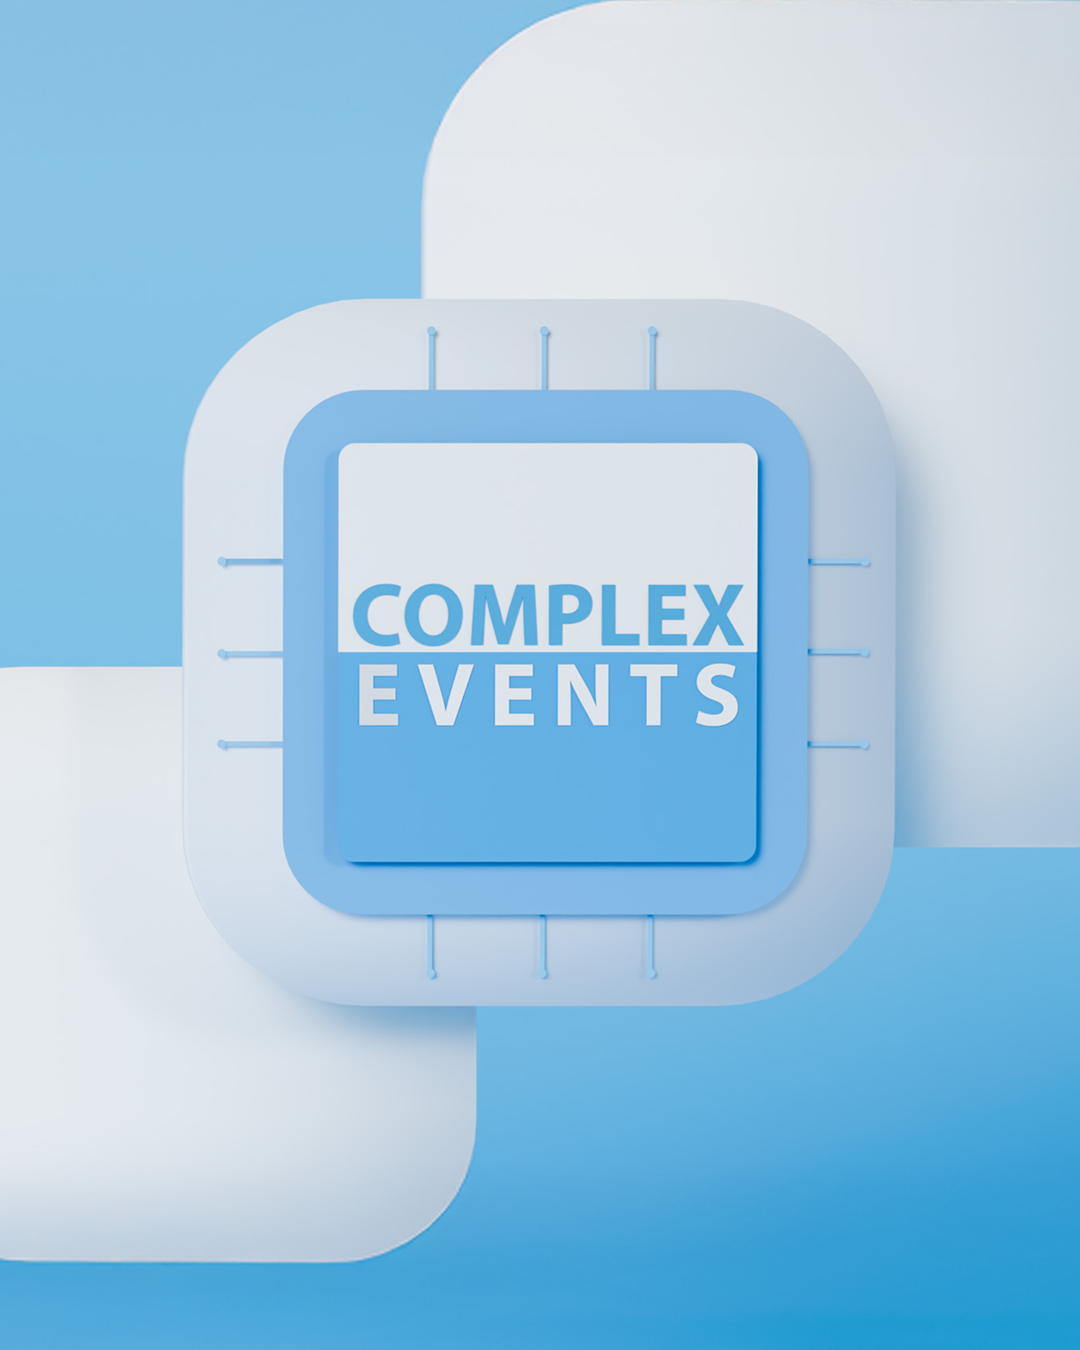
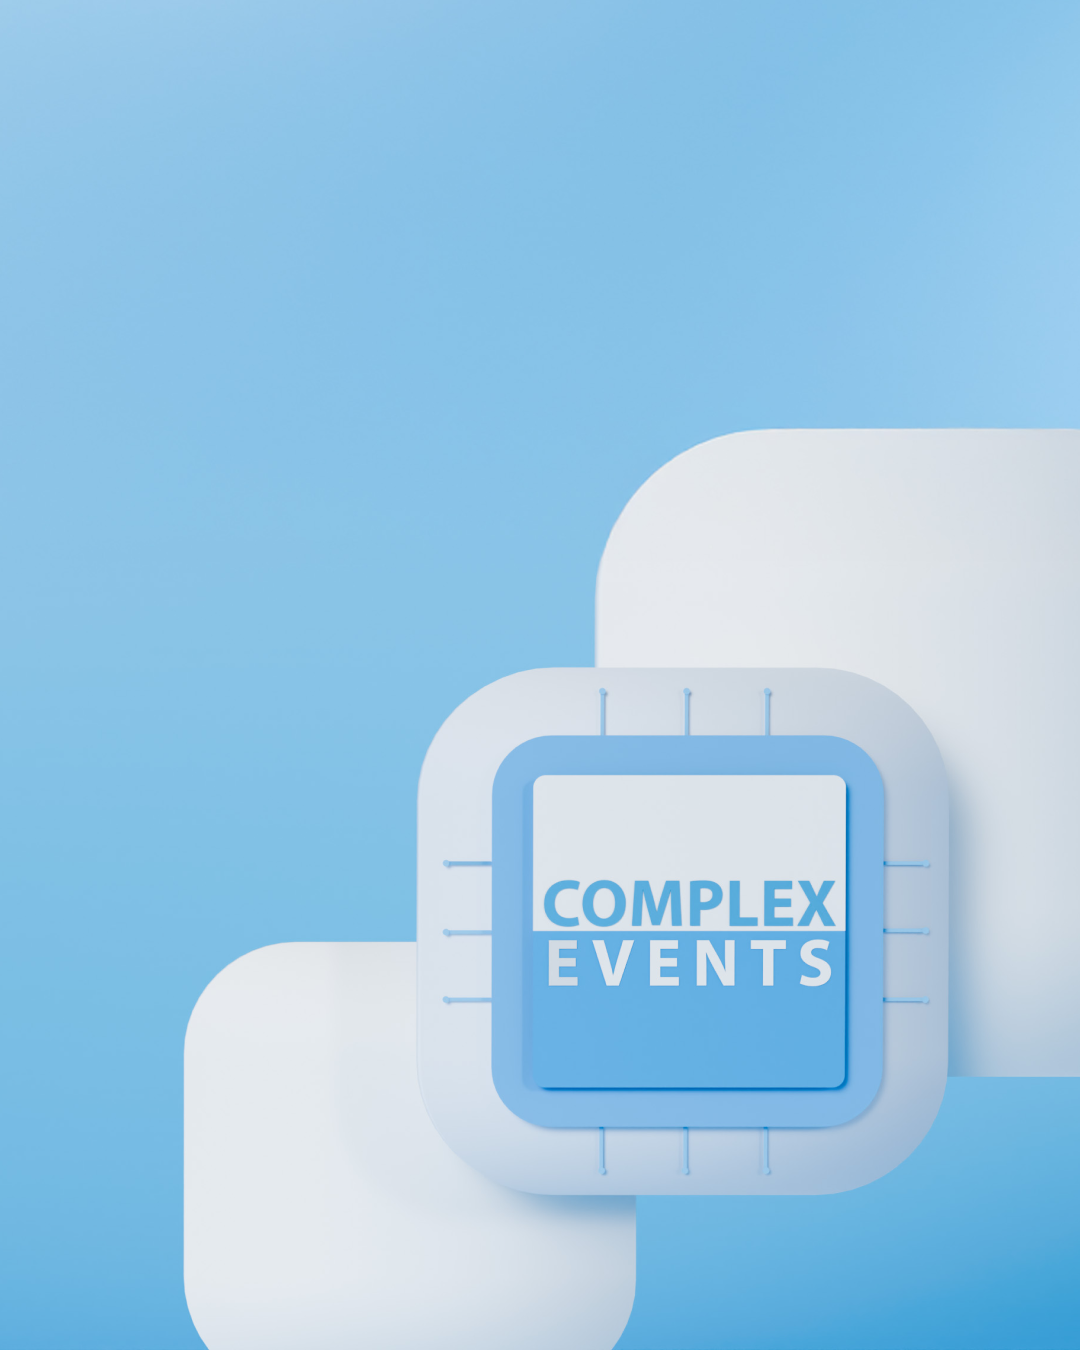
hero images

diff --git a/app/globals.css b/app/globals.css
@@ -177,3 +177,185 @@ a[class*="bg-[#00529B]"]:hover {
   transform: translateY(-2px) scale(1.02);
   box-shadow: 0 12px 24px rgba(40, 57, 140, 0.22);
 }
+/* Custom styling for the product images if they are used as background */
+.product-background-image {
+  background-size: cover;
+  background-position: center;
+  background-repeat: no-repeat;
+}
+
+.smart-series-hero-background {
+  background-image: url('/Navtelecom/smart_homepage1 1080x1350.png');
+}
+
+@media (min-width: 768px) {
+  .smart-series-hero-background {
+    background-image: url('/Navtelecom/smart_homepage1 2048x1365.png');
+  }
+}
+
+@media (min-width: 1024px) {
+  .smart-series-hero-background {
+    background-image: url('/Navtelecom/smart_homepage1 2560x1440.png');
+  }
+}
+
+@media (min-width: 1280px) {
+  .smart-series-hero-background {
+    background-image: url('/Navtelecom/smart_homepage1 3840x1646.png');
+  }
+}
+
+.start-series-hero-background {
+  background-image: url('/Navtelecom/start_homepage1 1080x1350.png') !important;
+}
+
+@media (min-width: 768px) {
+  .start-series-hero-background {
+    background-image: url('/Navtelecom/start_homepage1 2048x1365.png') !important;
+  }
+}
+
+@media (min-width: 1024px) {
+  .start-series-hero-background {
+    background-image: url('/Navtelecom/start_homepage1 2560x1440.png') !important;
+  }
+}
+
+@media (min-width: 1280px) {
+  .start-series-hero-background {
+    background-image: url('/Navtelecom/start_homepage1 3840x1646.png') !important;
+  }
+}
+
+.all-devices-hero-background {
+  background-image: url('/Navtelecom/all devices_homepage1 1080x1350.png') !important;
+}
+
+@media (min-width: 768px) {
+  .all-devices-hero-background {
+    background-image: url('/Navtelecom/all devices_homepage1 2048x1365.png') !important;
+  }
+}
+
+@media (min-width: 1024px) {
+  .all-devices-hero-background {
+    background-image: url('/Navtelecom/all devices_homepage1 2560x1440.png') !important;
+  }
+}
+
+@media (min-width: 1280px) {
+  .all-devices-hero-background {
+    background-image: url('/Navtelecom/all devices_homepage1 3840x1646.png') !important;
+  }
+}
+
+.tracking-devices-hero-background {
+  background-image: url('/Navtelecom/all devices2_homepage1 1080x1350.png') !important;
+}
+
+@media (min-width: 768px) {
+  .tracking-devices-hero-background {
+    background-image: url('/Navtelecom/all devices2_homepage1 2048x1365.png') !important;
+  }
+}
+
+@media (min-width: 1024px) {
+  .tracking-devices-hero-background {
+    background-image: url('/Navtelecom/all devices2_homepage1 2560x1440.png') !important;
+  }
+}
+
+@media (min-width: 1280px) {
+  .tracking-devices-hero-background {
+    background-image: url('/Navtelecom/all devices2_homepage1 3840x1646.png') !important;
+  }
+}
+
+.can-spy-hero-background {
+  background-image: url('/Navtelecom/Software/CAN/can_homepage1 1080x1350.png') !important;
+}
+
+@media (min-width: 768px) {
+  .can-spy-hero-background {
+    background-image: url('/Navtelecom/Software/CAN/can_homepage1 2048x1365.png') !important;
+  }
+}
+
+@media (min-width: 1024px) {
+  .can-spy-hero-background {
+    background-image: url('/Navtelecom/Software/CAN/can_homepage1 2560x1440.png') !important;
+  }
+}
+
+@media (min-width: 1280px) {
+  .can-spy-hero-background {
+    background-image: url('/Navtelecom/Software/CAN/can_homepage1 3840x1646.png') !important;
+  }
+}
+
+.cfg-hero-background {
+  background-image: url('/Navtelecom/Software/CFG/cfg_homepage1 1080x1350.png') !important;
+}
+
+@media (min-width: 768px) {
+  .cfg-hero-background {
+    background-image: url('/Navtelecom/Software/CFG/cfg_homepage1 2048x1365.png') !important;
+  }
+}
+
+@media (min-width: 1024px) {
+  .cfg-hero-background {
+    background-image: url('/Navtelecom/Software/CFG/cfg_homepage1 2560x1440.png') !important;
+  }
+}
+
+@media (min-width: 1280px) {
+  .cfg-hero-background {
+    background-image: url('/Navtelecom/Software/CFG/cfg_homepage1 3840x1646.png') !important;
+  }
+}
+
+.drc-hero-background {
+  background-image: url('/Navtelecom/Software/DRC/drc_homepage1 1080x1350.png') !important;
+}
+
+@media (min-width: 768px) {
+  .drc-hero-background {
+    background-image: url('/Navtelecom/Software/DRC/drc_homepage1 2048x1365.png') !important;
+  }
+}
+
+@media (min-width: 1024px) {
+  .drc-hero-background {
+    background-image: url('/Navtelecom/Software/DRC/drc_homepage1 2560x1440.png') !important;
+  }
+}
+
+@media (min-width: 1280px) {
+  .drc-hero-background {
+    background-image: url('/Navtelecom/Software/DRC/drc_homepage1 3840x1646.png') !important;
+  }
+}
+
+.ntc-control-hero-background {
+  background-image: url('/Navtelecom/Software/NTC/ntc_homepage1 1080x1350.png') !important;
+}
+
+@media (min-width: 768px) {
+  .ntc-control-hero-background {
+    background-image: url('/Navtelecom/Software/NTC/ntc_homepage1 2048x1365.png') !important;
+  }
+}
+
+@media (min-width: 1024px) {
+  .ntc-control-hero-background {
+    background-image: url('/Navtelecom/Software/NTC/ntc_homepage1 2560x1440.png') !important;
+  }
+}
+
+@media (min-width: 1280px) {
+  .ntc-control-hero-background {
+    background-image: url('/Navtelecom/Software/NTC/ntc_homepage1 3840x1646.png') !important;
+  }
+}

diff --git a/app/products/tracking-devices/signal-series/page.tsx b/app/products/tracking-devices/signal-series/page.tsx
@@ -202,25 +202,24 @@ const SignalSeriesPage = () => {
           <picture className="block w-full">
             <source
               media="(max-width: 639px)"
-              srcSet="/Navtelecom/signl_1080x1350.png"
+              srcSet="/Navtelecom/signal_homepage1 1080x1350.png"
             />
             <source
               media="(min-width: 640px) and (max-width: 1279px)"
-              srcSet="/Navtelecom/signal_2048x1365.png"
+              srcSet="/Navtelecom/signal_homepage1 2048x1365.png"
             />
             <source
               media="(min-width: 1280px) and (max-width: 1919px)"
-              srcSet="/Navtelecom/signal_2560x1440.png"
+              srcSet="/Navtelecom/signal_homepage1 2560x1440.png"
             />
             <source
               media="(min-width: 1920px)"
-              srcSet="/Navtelecom/signal_3840x1646.png"
+              srcSet="/Navtelecom/signal_homepage1 3840x1646.png"
             />
             <img
-              src="/Navtelecom/signal_2048x1365.png"
+              src="/Navtelecom/signal_homepage1 2048x1365.png"
               alt="SIGNAL Series"
               className="w-full h-auto block"
-              loading="eager"
             />
           </picture>
           <div className="absolute inset-0 z-10 max-w-7xl mx-auto left-0 right-0 px-4 sm:px-6 lg:px-8">

diff --git a/app/products/tracking-devices/start-series/page.tsx b/app/products/tracking-devices/start-series/page.tsx
@@ -139,20 +139,7 @@ const StartSeriesPage = () => {
 
       <main className="pt-20 bg-[#EFEFEF]">
         {/* HERO SECTION */}
-        <section className="relative h-[calc(100vh-5rem)] min-h-[calc(100dvh-5rem)] overflow-hidden flex items-center bg-[#EFEFEF]">
-          {/* Hero image - larger, device aligned to top */}
-          <div className="absolute inset-0 overflow-hidden">
-            <div className="relative w-full h-full">
-              <Image
-                src="/Navtelecom/Start_series.png"
-                alt="START Series"
-                fill
-                className="object-contain object-center scale-[1.02] 2xl:object-cover 2xl:object-[center_60%] 2xl:scale-100"
-                sizes="100vw"
-                priority
-              />
-            </div>
-          </div>
+        <section className="relative h-[calc(100vh-5rem)] min-h-[calc(100dvh-5rem)] overflow-hidden flex items-center bg-[#EFEFEF] product-background-image start-series-hero-background">
           <div className="relative z-10 max-w-7xl mx-auto px-4 sm:px-6 lg:px-8 h-full">
             <div className="grid lg:grid-cols-[1fr_1.5fr_1fr] gap-12 items-center py-12 md:py-20">
               {/* Left Info */}

diff --git a/app/products/tracking-devices/smart-series/page.tsx b/app/products/tracking-devices/smart-series/page.tsx
@@ -269,19 +269,7 @@ const SmartSeriesPage = () => {
 
       <main className="pt-20">
         {/* HERO SECTION */}
-        <section className="relative h-[calc(100vh-5rem)] min-h-[calc(100dvh-5rem)] overflow-hidden flex items-center bg-[#EFEFEF]">
-          {/* Hero image - larger, device aligned to top */}
-          <div className="absolute inset-0 overflow-hidden">
-            <div className="relative w-full h-full">
-              <Image
-                src="/Navtelecom/smart_device.png"
-                alt="SMART Series"
-                fill
-                className="object-contain object-center scale-100 2xl:object-cover 2xl:object-center"
-                priority
-              />
-            </div>
-          </div>
+        <section className="relative h-[calc(100vh-5rem)] min-h-[calc(100dvh-5rem)] overflow-hidden flex items-center bg-[#EFEFEF] product-background-image smart-series-hero-background">
           <div className="relative z-10 max-w-7xl mx-auto px-4 sm:px-6 lg:px-8 h-full">
             <div className="grid lg:grid-cols-[1fr_1.5fr_1fr] gap-12 items-center py-12 md:py-20">
               {/* Left Info */}

diff --git a/app/products/all-devices/page.tsx b/app/products/all-devices/page.tsx
@@ -452,15 +452,8 @@ const AllDevicesPage = () => {
 
       <main className="pt-20">
         {/* Hero Section */}
-        <section className="relative min-h-[clamp(24rem,62vh,42rem)] flex items-start overflow-hidden bg-brand-light-3">
-          <Image
-            src="/Navtelecom/Alldevices2_banner.png"
-            alt="All devices lineup banner"
-            fill
-            priority
-            className="object-cover object-bottom"
-          />
-          <div className="relative z-40 w-full max-w-[1440px] mx-auto px-[clamp(1rem,2.4vw,2.5rem)] pt-6 md:pt-8">
+        <section className="relative h-[calc(100vh-5rem)] min-h-[calc(100dvh-5rem)] flex items-start overflow-hidden bg-brand-light-3 product-background-image all-devices-hero-background">
+          <div className="absolute inset-0 z-40 w-full max-w-[1440px] mx-auto px-[clamp(1rem,2.4vw,2.5rem)] pt-6 md:pt-8">
             <div className="text-left">
               <p className="text-caption mb-4 text-brand-navy">
                 COMPLETE CATALOG

diff --git a/app/products/tracking-devices/page.tsx b/app/products/tracking-devices/page.tsx
@@ -12,14 +12,7 @@ const TrackingDevicesPage = () => {
 
       <main className="pt-20">
         {/* Hero Section */}
-        <section className="relative min-h-[clamp(24rem,62vh,42rem)] flex items-center overflow-hidden bg-brand-light-3 pb-12 md:pb-16">
-          <Image
-            src="/Navtelecom/Alldevices_banner.png"
-            alt="Tracking devices lineup"
-            fill
-            priority
-            className="object-cover object-bottom"
-          />
+        <section className="relative h-[calc(100vh-5rem)] min-h-[calc(100dvh-5rem)] flex items-center overflow-hidden bg-brand-light-3 pb-12 md:pb-16 product-background-image tracking-devices-hero-background">
           <div className="relative z-40 w-full max-w-[1440px] mx-auto px-[clamp(1rem,2.4vw,2.5rem)] pt-6 md:pt-8">
             <div className="text-left">
               <p className="text-caption mb-4 text-brand-navy">

diff --git a/app/products/software-solutions/ntc-control/page.tsx b/app/products/software-solutions/ntc-control/page.tsx
@@ -9,8 +9,8 @@ const NTCControlPage = () => {
       <Navbar />
 
       <main className="pt-20">
-        <section className="py-24 bg-white">
-          <div className="max-w-7xl mx-auto px-4 sm:px-6 lg:px-8">
+        <section className="relative h-[calc(100vh-5rem)] min-h-[calc(100dvh-5rem)] flex items-center overflow-hidden bg-white product-background-image ntc-control-hero-background">
+          <div className="relative z-20 max-w-7xl mx-auto px-4 sm:px-6 lg:px-8 text-white">
             <div className="mb-8">
               <Link
                 href="/products/software-solutions"

diff --git a/app/products/software-solutions/ntc-configurator/page.tsx b/app/products/software-solutions/ntc-configurator/page.tsx
@@ -9,8 +9,8 @@ const NTCConfiguratorPage = () => {
       <Navbar />
 
       <main className="pt-20">
-        <section className="py-24 bg-white">
-          <div className="max-w-7xl mx-auto px-4 sm:px-6 lg:px-8">
+        <section className="relative h-[calc(100vh-5rem)] min-h-[calc(100dvh-5rem)] flex items-center overflow-hidden bg-white product-background-image cfg-hero-background">
+          <div className="relative z-20 max-w-7xl mx-auto px-4 sm:px-6 lg:px-8 text-white">
             <div className="mb-8">
               <Link
                 href="/products/software-solutions"

diff --git a/app/products/software-solutions/can-spy/page.tsx b/app/products/software-solutions/can-spy/page.tsx
@@ -9,8 +9,8 @@ const CanSpyPage = () => {
       <Navbar />
 
       <main className="pt-20">
-        <section className="py-24 bg-white">
-          <div className="max-w-7xl mx-auto px-4 sm:px-6 lg:px-8">
+        <section className="relative h-[calc(100vh-5rem)] min-h-[calc(100dvh-5rem)] flex items-center overflow-hidden bg-white product-background-image can-spy-hero-background">
+          <div className="relative z-20 max-w-7xl mx-auto px-4 sm:px-6 lg:px-8 text-white">
             <div className="mb-8">
               <Link
                 href="/products/software-solutions"

diff --git a/app/products/software-solutions/drc/page.tsx b/app/products/software-solutions/drc/page.tsx
@@ -9,8 +9,8 @@ const DRCPage = () => {
       <Navbar />
 
       <main className="pt-20">
-        <section className="py-24 bg-white">
-          <div className="max-w-7xl mx-auto px-4 sm:px-6 lg:px-8">
+        <section className="relative h-[calc(100vh-5rem)] min-h-[calc(100dvh-5rem)] flex items-center overflow-hidden bg-white product-background-image drc-hero-background">
+          <div className="relative z-20 max-w-7xl mx-auto px-4 sm:px-6 lg:px-8 text-white">
             <div className="mb-8">
               <Link
                 href="/products/software-solutions"
